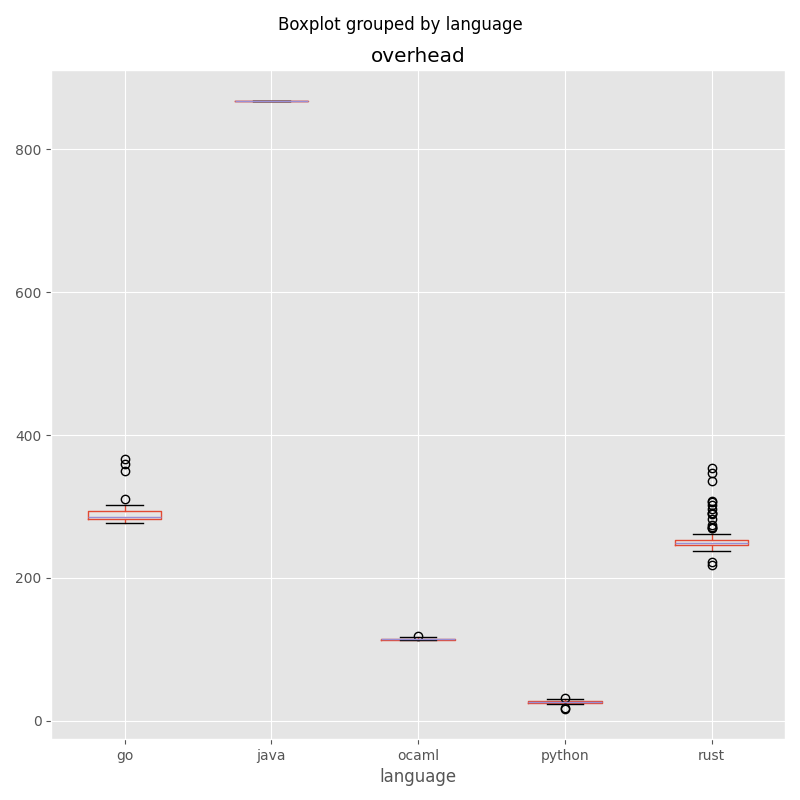
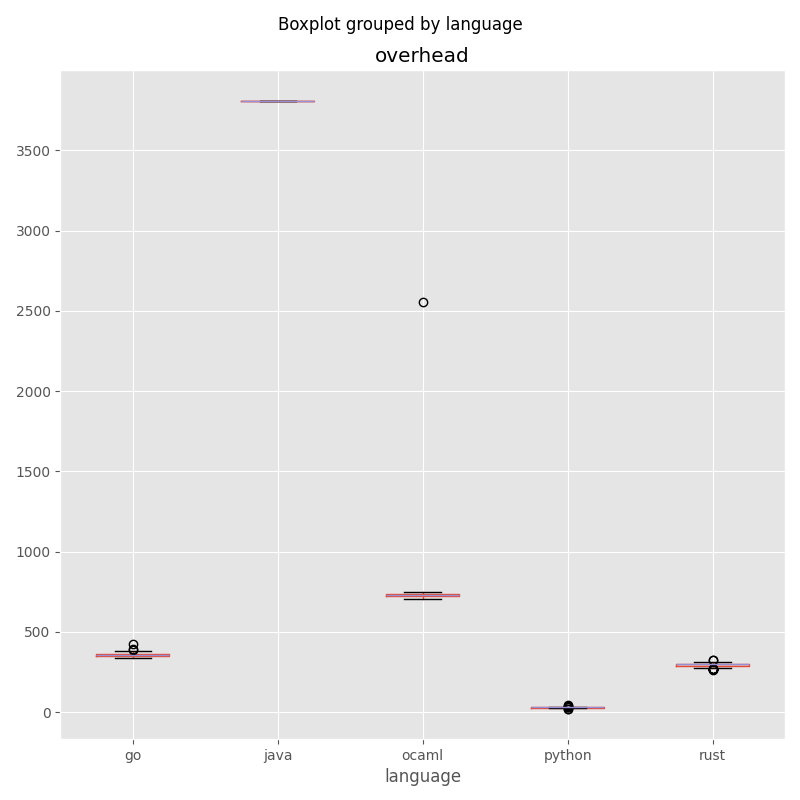
2016/14 runs in a second now, good enough, and faster in rust

diff --git a/2016/14/solver.rs b/2016/14/solver.rs
@@ -1,5 +1,6 @@
 use aoc_lib::answer;
 use aoc_lib::reader::Reader;
+use rayon::prelude::*;
 use std::collections::VecDeque;
 
 #[derive(Debug, Clone)]
@@ -20,31 +21,36 @@ impl Hasher {
         Self { prefix, n }
     }
 
-    fn next(&self, start: usize) -> HashInfo {
-        let mut i = start;
-        loop {
-            let mut digest = md5::compute(format!("{}{i}", self.prefix));
-            let mut hash = [0; 32];
-            for _ in 0..(self.n - 1) {
-                Self::fill_hash(&mut hash, digest);
-                digest = md5::compute(hash);
-            }
-            Self::fill_hash(&mut hash, digest);
-            if let Some(&triple) = Self::repeats(&hash, 3).first() {
-                return HashInfo {
-                    i,
-                    triple,
-                    cinqs: Self::repeats(&hash, 5),
-                };
-            }
-            i += 1;
+    fn compute_range(&self, start: usize, end: usize) -> VecDeque<HashInfo> {
+        if self.n == 0 || end - start == 0 {
+            (start..=end).filter_map(|i| self.compute(i)).collect()
+        } else {
+            (start..=end)
+                .into_par_iter()
+                .filter_map(|i| self.compute(i))
+                .collect()
         }
+    }
+
+    fn compute(&self, i: usize) -> Option<HashInfo> {
+        let mut digest = md5::compute(format!("{}{i}", self.prefix));
+        let mut hash = [0; 32];
+        for _ in 0..(self.n) {
+            Self::fill_hash(&mut hash, digest);
+            digest = md5::compute(hash);
+        }
+        Self::fill_hash(&mut hash, digest);
+        Self::repeats(&hash, 3).first().map(|&triple| HashInfo {
+            i,
+            triple,
+            cinqs: Self::repeats(&hash, 5),
+        })
     }
 
     fn fill_hash(buffer: &mut [u8; 32], digest: md5::Digest) {
         for i in 0..16 {
             let ch = digest[i];
-            let (v1, v2) = (ch >> 4, ch & 0b0000_1111);
+            let (v1, v2) = (ch >> 4, ch & 0xf);
             buffer[i * 2] = Self::hex_ascii(v1);
             buffer[i * 2 + 1] = Self::hex_ascii(v2);
         }
@@ -77,25 +83,31 @@ fn main() {
 
 fn solution() {
     let prefix = Reader::default().read_line();
-    answer::part1(15168, generate(prefix.clone(), 1));
-    answer::part2(20864, generate(prefix.clone(), 2_017));
+    answer::part1(15168, generate(&prefix, 0));
+    answer::part2(20864, generate(&prefix, 2_016));
 }
 
-fn generate(prefix: String, n: usize) -> usize {
-    let hasher = Hasher::new(prefix, n);
+fn generate(prefix: &str, n: usize) -> usize {
+    let hasher = Hasher::new(prefix.to_string(), n);
 
     let mut hashes = VecDeque::new();
-    hashes.push_back(hasher.next(0));
+    let mut i = 0;
+    while hashes.is_empty() {
+        if let Some(hash) = hasher.compute(i) {
+            hashes.push_back(hash);
+        }
+        i += 1;
+    }
 
     let mut keys = Vec::new();
     while keys.len() < 64 {
-        let hash = hashes.front().unwrap().clone();
-        while hashes.back().unwrap().i < hash.i + 1_000 {
-            hashes.push_back(hasher.next(hashes.back().unwrap().i + 1));
-        }
-        hashes.pop_front().unwrap();
+        let hash = hashes.pop_front().unwrap();
+        let end = hash.i + 1_000;
+
+        hashes.append(&mut hasher.compute_range(i, end));
+
         for other in hashes.iter() {
-            if hash.i + 1000 < other.i {
+            if end < other.i {
                 break;
             }
             if other.cinqs.contains(&hash.triple) {
@@ -103,6 +115,8 @@ fn generate(prefix: String, n: usize) -> usize {
                 break;
             }
         }
+
+        i = end + 1;
     }
-    keys[63]
+    *keys.last().unwrap()
 }
